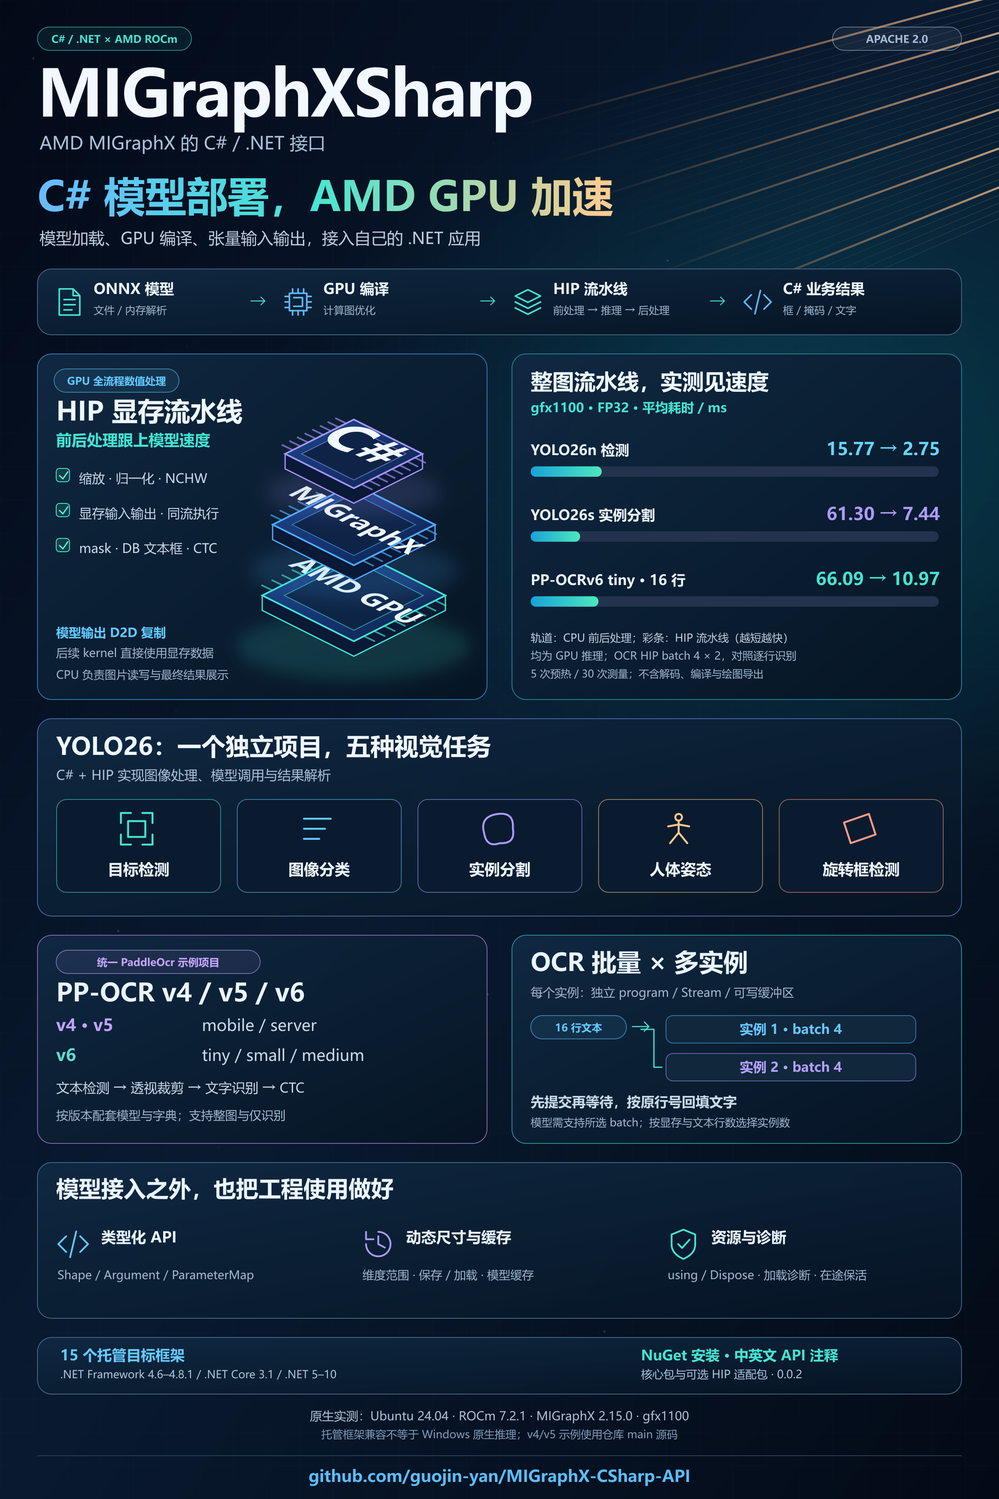
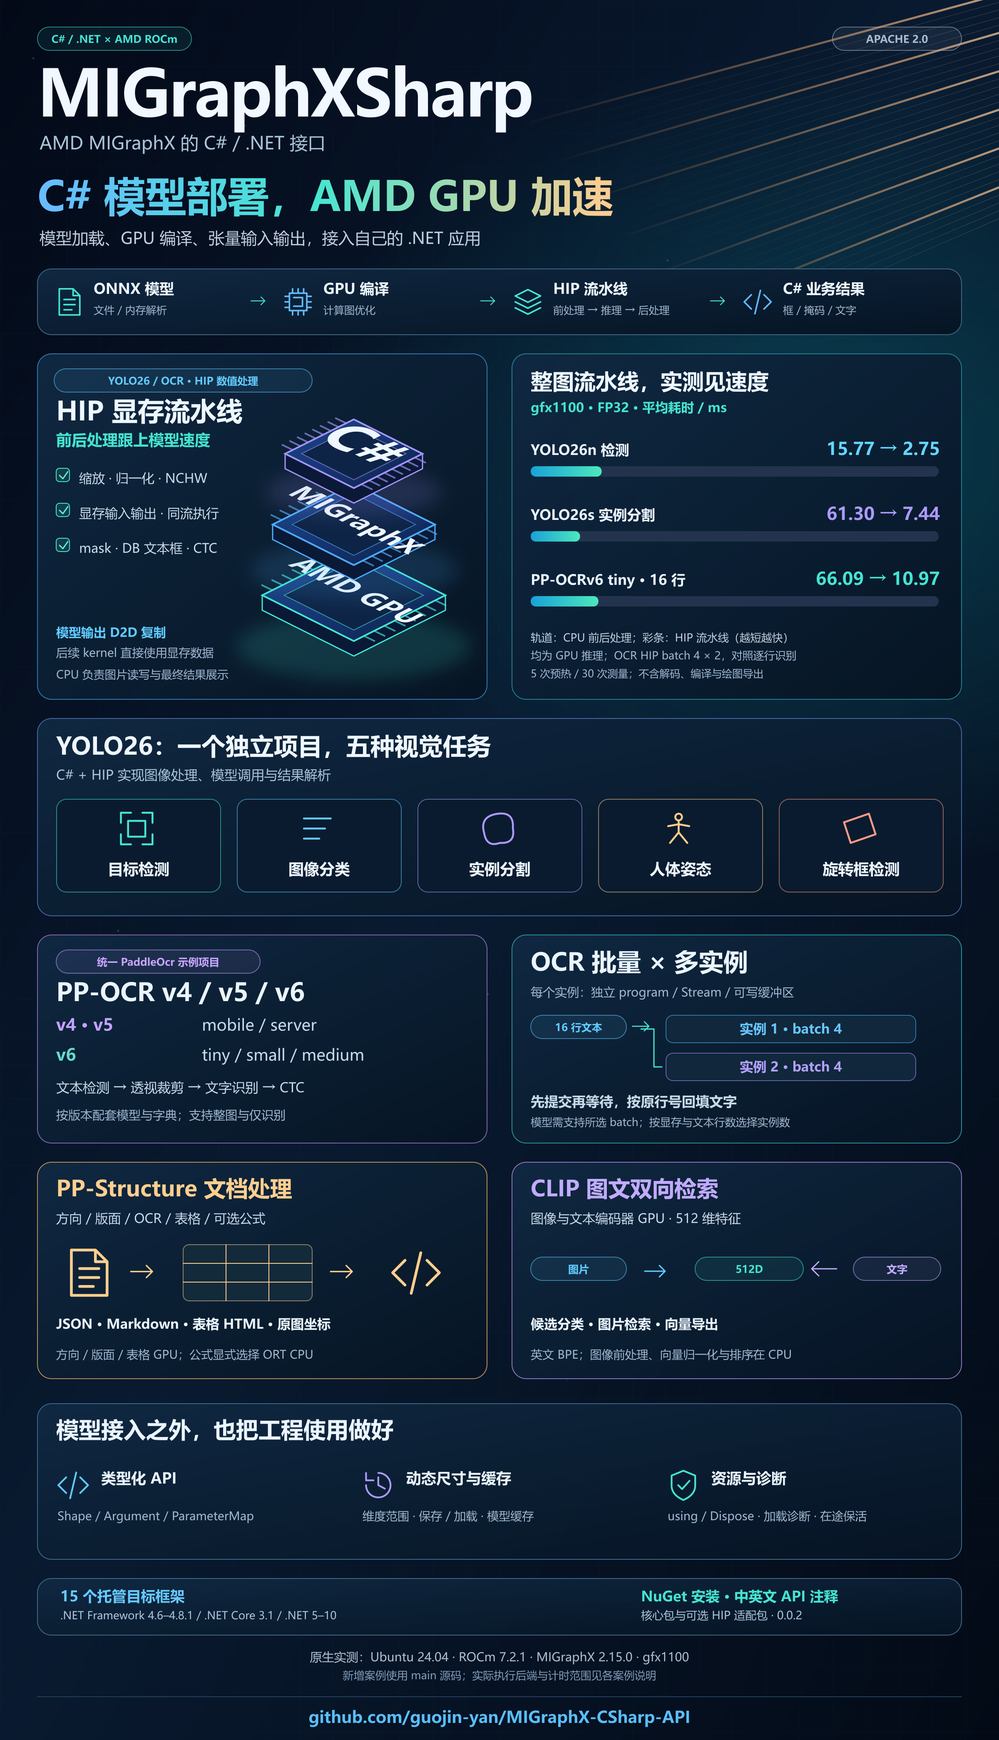
docs(blog): introduce library first and promote all four model samples

Changed region(s): [[0.0312, 0.0, 1.0, 0.9956], [0.875, 0.7156, 0.9062, 0.7467], [0.4062, 0.7156, 0.4375, 0.7467]]

diff --git a/docs/blog/2026-11-01-clip-image-text-retrieval.md b/docs/blog/2026-11-01-clip-image-text-retrieval.md
@@ -2,17 +2,35 @@
 
 ![CLIP 图文双向检索：C#、MIGraphX 与共享特征空间](assets/clip/cover.png)
 
-## 一、前言：换一组描述，能不能换一组分类
+## 一、MIGraphXSharp 项目简介
+
+**MIGraphXSharp** 是一个面向 **C# / .NET 开发者**的 AMD MIGraphX 接口库，由「椒颜皮皮虾」（Guojin Yan）开发，项目源码遵循 **Apache License 2.0**。它通过 MIGraphX C ABI 调用 AMD 原生推理引擎，提供 ONNX 解析、GPU 编译、张量输入输出和资源管理接口，方便将模型接入自己的 .NET 应用。
+
+项目提供类型化数组、形状检查、`IDisposable`、动态输入和模型缓存。普通模型调用使用核心包，需要与自己编写的 HIP kernel 配合时，再使用可选 HIP 适配包连接设备内存与 stream。
+
+目前随项目提供 **YOLO26 五任务、PaddleOCR v4/v5/v6、PP-Structure 文档处理和 CLIP 图文检索**四类独立案例。除了单个模型，也可以在 C# 中组织多模型流程，保留每个阶段的结果和业务数据。
+
+**项目源码与 NuGet：**
+
+```text
+项目地址：https://github.com/guojin-yan/MIGraphX-CSharp-API
+核心包：https://www.nuget.org/packages/JYPPX.ROCm.MIGraphX.CSharp.API/0.0.2
+HIP 适配包：JYPPX.ROCm.MIGraphX.CSharp.API.HIP.Interop 0.0.2
+```
+
+当前原生 GPU 路径已在 Linux、ROCm 7.2.1、MIGraphX 2.15.0、gfx1100 上验证。托管包兼容多个 .NET 目标框架，实际运行仍需单独准备匹配的 AMD 驱动与原生运行库。
+
+## 二、从商品图片到图文检索
+
+### 2.1 换一组描述，能不能换一组分类
 
 整理商品图片时，经常会遇到一个问题：图片很多，类别还在变。今天按鞋、手表、相机分，明天又想找“带红色元素的商品”或“适合户外的背包”。如果每改一次条件都重新训练分类模型，工程成本会比较高。
 
 CLIP 提供了另一种处理方式。把图片和文字分别编码成向量，比较相似度，就可以尝试按文字描述筛选图片。它适合做图片检索、候选标签推荐和素材整理，也适合与已有的 OCR、检测流程配合使用。
 
-这次我在 MIGraphXSharp 中增加了独立的 CLIP C# 案例，用 AMD GPU 执行图像与文本两个编码器。本文使用三张商品照片、六条英文描述，完成图片到文字的匹配，再反过来用文字检索图片。除了运行方法，也把图像前处理、BPE 分词、特征归一化、分数含义和速度逐项展开。
+本篇使用当前 main 的独立 `samples/Clip` 案例，核心 API 为 `0.0.2`，v0.0.2 发布标签尚不包含这个项目。图像处理、分词、模型会话、排序和展示都在同一个工程中。接下来用三张商品照片、六条英文描述，完成图片到文字的匹配，再反过来用文字检索图片，并展开关键代码和实际速度。
 
-## 二、先看真实结果，再认识两个编码器
-
-### 2.1 三张商品图匹配到了什么
+### 2.2 三张商品图匹配到了什么
 
 ![CLIP 三张商品图的真实匹配结果：运动鞋、腕表和拍立得相机](assets/clip/clip-results.png)
 
@@ -26,7 +44,7 @@ CLIP 提供了另一种处理方式。把图片和文字分别编码成向量，
 
 这三张图都匹配到预期类别。不过这里只是功能演示，没有人工标注的数据集，也没有“不属于六类中任何一类”的负样本，不能据此写成分类准确率 100%。后面做业务拒识时，还需要补充这些样本。
 
-### 2.2 为什么图片可以和文字比较
+### 2.3 为什么图片可以和文字比较
 
 CLIP 的图像编码器接收图片，文本编码器接收 token。两者输出同一特征空间的向量。本文使用的 OpenAI CLIP ViT-B/32，每条特征都是 512 维。
 
@@ -36,20 +54,11 @@ CLIP 的图像编码器接收图片，文本编码器接收 token。两者输出
 
 两种用法复用了同一组编码器。区别在于哪一侧提前计算、哪一侧作为查询，并不需要额外训练一个六分类头。
 
-## 三、项目、环境与模型文件
+## 三、环境与模型文件
 
-### 3.1 MIGraphXSharp 在这里做什么
+### 3.1 本文运行环境
 
-MIGraphXSharp 是 C# 到 AMD MIGraphX 的接口库。本例通过它设置 ONNX 输入尺寸、编译 GPU program、传入 float32/int64 张量并读取输出。CLIP 的图像处理、分词、排序和 HTML 展示属于示例代码。
-
-```text
-项目地址：https://github.com/guojin-yan/MIGraphX-CSharp-API
-核心包：JYPPX.ROCm.MIGraphX.CSharp.API 0.0.2
-案例目录：samples/Clip
-模型来源：https://github.com/guojin-yan/DeploySharp/releases/tag/models-visual.1
-```
-
-本案例位于当前 main，未包含在 v0.0.2 发布标签中；使用的是已有核心 API。它是独立项目，所需 `ModelSession`、tokenizer、图像前处理和结果代码全部放在自己的目录中。
+本例通过 MIGraphXSharp 设置 ONNX 输入尺寸、编译 GPU program、传入 float32/int64 张量并读取输出，使用以下原生与托管环境：
 
 | 项目 | 本文配置 |
 | --- | --- |
@@ -63,6 +72,8 @@ MIGraphXSharp 是 C# 到 AMD MIGraphX 的接口库。本例通过它设置 ONNX 
 两个编码器由 MIGraphX GPU 执行，图像前处理、特征归一化和排序目前在 CPU。这与 YOLO26/OCR 的 HIP 前后处理路径不同，后面的性能数据也按实际实现说明。
 
 ### 3.2 五个模型相关文件
+
+模型下载来源：`https://github.com/guojin-yan/DeploySharp/releases/tag/models-visual.1`。
 
 | 文件 | 用途 |
 | --- | --- |

diff --git a/docs/blog/2026-11-01-pp-structure-document-processing.md b/docs/blog/2026-11-01-pp-structure-document-processing.md
@@ -2,30 +2,35 @@
 
 ![PP-Structure 文档处理：从页面图片到区域、文字、表格与结构化结果](assets/pp-structure/cover.png)
 
-## 一、前言：文字读出来以后，文档还缺什么
+## 一、MIGraphXSharp 项目简介
 
-前面用 PaddleOCR 完成了文字检测与识别，图片里写了什么，已经能够读出来。但换成报纸、论文、费用表，直接把所有行拼成一段文本，很多信息就丢了：哪一块是标题，哪一块是正文，哪些文字属于同一个表格，公式应该放在哪里？
+**MIGraphXSharp** 是一个面向 **C# / .NET 开发者**的 AMD MIGraphX 接口库，由「椒颜皮皮虾」（Guojin Yan）开发，项目源码遵循 **Apache License 2.0**。它通过 MIGraphX C ABI 调用 AMD 原生推理引擎，提供 ONNX 解析、GPU 编译、张量输入输出和资源管理接口，方便在现有 .NET 工程中组织模型调用。
 
-文档处理需要在 OCR 上面再加一层结构。我这次将 Paddle 文档模型组合成一个独立 C# 案例，接入页面方向、版面、整页 OCR、表格分类、单元格检测、结构解码，并导出 JSON、Markdown、HTML 和原图定位。
+项目提供类型化数组、形状检查、`IDisposable`、动态输入和模型缓存，也可以通过可选 HIP 适配包连接自己的显存与 stream。对于文档这种多模型任务，可以复用已经编译的模型，在 C# 中组织各阶段和业务结果。
 
-本文会按一页文档的处理顺序介绍代码，再单独拆开表格这条路径。实际演示包含报刊、图文混排、论文、公式、费用表和倒置页六种输入，最后给出逐页耗时。
+目前随项目提供 **YOLO26 五任务、PaddleOCR v4/v5/v6、PP-Structure 文档处理和 CLIP 图文检索**四类独立案例。图像处理、模型解码和文档导出放在案例层，核心库没有引入 OCR、ImageSharp 或 ONNX Runtime 依赖。
 
-先说明执行范围：**方向、版面、OCR 和表格模型使用 MIGraphX GPU，OCR 数值前后处理使用 HIP；公式识别是显式选择的 ONNX Runtime CPU 路径。** FormulaNet 的动态图在当前 MIGraphX 2.15 下不能直接解析，因此这不是全 GPU 的公式方案。
-
-## 二、项目定位与最终结果
-
-### 2.1 案例建立在 MIGraphXSharp 上
-
-MIGraphXSharp 负责 C# 调用 AMD MIGraphX 的模型解析、编译、张量与资源管理。这里的 `DocumentPipeline` 则属于应用示例，把多个模型按页面流程连接起来，核心库本身没有引入 OCR、ImageSharp 或 ONNX Runtime 依赖。
+**项目源码与 NuGet：**
 
 ```text
 项目地址：https://github.com/guojin-yan/MIGraphX-CSharp-API
-核心 API 版本：0.0.2
-案例目录：samples/PPStructure
-模型来源：https://github.com/guojin-yan/DeploySharp/releases/tag/models-paddleocr
+核心包：https://www.nuget.org/packages/JYPPX.ROCm.MIGraphX.CSharp.API/0.0.2
+HIP 适配包：JYPPX.ROCm.MIGraphX.CSharp.API.HIP.Interop 0.0.2
 ```
 
-本文使用当前 main 中的独立示例，v0.0.2 发布标签尚不包含这个新项目。模型、图像处理、OCR、结构解码和导出都在自己的项目目录，便于直接阅读和移植。
+当前原生 GPU 路径已在 Linux、ROCm 7.2.1、MIGraphX 2.15.0、gfx1100 上验证。托管包兼容多个 .NET 目标框架，实际运行仍需单独准备匹配的 AMD 驱动与原生运行库。
+
+## 二、从文字识别到文档结构
+
+### 2.1 文字读出来以后，文档还缺什么
+
+PaddleOCR 可以完成文字检测与识别，读出图片里的内容。但换成报纸、论文、费用表，直接把所有行拼成一段文本，很多信息就丢了：哪一块是标题，哪一块是正文，哪些文字属于同一个表格，公式应该放在哪里？
+
+文档处理需要在 OCR 上面再加一层结构。我这次将 Paddle 文档模型组合成一个独立 C# 案例，接入页面方向、版面、整页 OCR、表格分类、单元格检测、结构解码，并导出 JSON、Markdown、HTML 和原图定位。
+
+代码位于当前 main 的 `samples/PPStructure`，v0.0.2 发布标签尚不包含这个新项目，核心 API 沿用 `0.0.2`。本文按页面处理顺序介绍代码，再单独拆开表格路径；演示包含报刊、混排、论文、公式、费用表和倒置页六种输入，最后给出逐页耗时。
+
+执行范围也分别说明：**方向、版面、OCR 和表格模型使用 MIGraphX GPU，OCR 数值前后处理使用 HIP；公式识别是显式选择的 ONNX Runtime CPU 路径。** FormulaNet 的动态图在当前 MIGraphX 2.15 下不能直接解析，因此这不是全 GPU 的公式方案。
 
 ### 2.2 先看两张复杂页面
 
@@ -77,6 +82,8 @@ MIGraphXSharp 负责 C# 调用 AMD MIGraphX 的模型解析、编译、张量与
 | 模型精度 | FP32 |
 | OCR 调度 | batch=4，worker=2 |
 | 可选公式 | ONNX Runtime CPU，4 线程 |
+
+模型下载来源：`https://github.com/guojin-yan/DeploySharp/releases/tag/models-paddleocr`。
 
 在仓库根目录准备文件。Python 只用于一次性改写兼容 ONNX，后续页面处理入口是 C#：
 

diff --git a/docs/blog/2026-11-01-yolo26-five-tasks.md b/docs/blog/2026-11-01-yolo26-five-tasks.md
@@ -2,30 +2,33 @@
 
 ![MIGraphXSharp YOLO26 五任务：C# 接入 AMD GPU，HIP 完成数值前后处理](assets/yolo26/cover.png)
 
-## 一、前言：模型跑得快，整个程序也要跟上
+## 一、MIGraphXSharp 项目简介
 
-做过 YOLO 部署的小伙伴应该遇到过这种情况：模型推理只需要几毫秒，图片从读进来到拿到结果，却花了十几甚至几十毫秒。尤其是实例分割，模型后面还有 mask 计算、缩放和坐标恢复，单看一次推理时间，很容易低估整个程序的开销。
+**MIGraphXSharp** 是一个面向 **C# / .NET 开发者**的 AMD MIGraphX 接口库，由「椒颜皮皮虾」（Guojin Yan）开发，项目源码遵循 **Apache License 2.0**。它通过 MIGraphX C ABI 调用 AMD 原生推理引擎，提供 ONNX 模型解析、GPU 编译、张量输入输出和资源管理接口，方便大家在现有 .NET 工程中部署模型。
 
-这次我把 YOLO26 的五类任务整理到 MIGraphXSharp 的同一个 C# 示例中。除了调用 AMD MIGraphX 执行模型，也把 resize、letterbox、输出解码和实例 mask 计算放到了 HIP 显存流水线中。这样，大家既可以看到五类模型怎样使用，也能看清楚前后处理究竟影响了多少时间。
+项目按 C# 的使用习惯提供类型化数组、形状检查和 `IDisposable` 资源管理，也支持动态输入、程序保存加载与模型缓存。需要自己写 GPU 前后处理时，可以通过可选的 HIP 适配包，把模型接入已有的设备缓冲区和 stream。
 
-本文从模型文件、输入输出、C# 调用一直讲到实际结果和速度。检测只是其中一条路径，分类、分割、姿态和旋转框都有对应代码和演示。
+目前随项目提供 **YOLO26 五任务、PaddleOCR v4/v5/v6、PP-Structure 文档处理和 CLIP 图文检索**四类独立案例。NuGet 提供推理和显存互操作 API，各模型的图像处理、解码与展示代码保留在对应示例中，大家可以按任务直接查看和修改。
 
-## 二、项目和本篇案例
-
-### 2.1 MIGraphXSharp 负责什么
-
-MIGraphXSharp 是我维护的 MIGraphX C# 接口库，通过 MIGraphX C ABI 连接 AMD 原生运行时。ONNX 解析、GPU 编译、张量输入输出和资源释放可以直接在 C# 中完成；需要自己写 HIP 前后处理时，再使用 HIP 适配包连接设备内存与 stream。
-
-这里要区分两个层次：**NuGet 提供推理和显存互操作 API，YOLO 的图像处理、任务解码和绘图属于示例工程。** 安装核心包不会自动得到一个 YOLO 业务类，也不会安装 ROCm 驱动。
+**项目源码与 NuGet：**
 
 ```text
 项目地址：https://github.com/guojin-yan/MIGraphX-CSharp-API
-核心包：JYPPX.ROCm.MIGraphX.CSharp.API 0.0.2
+核心包：https://www.nuget.org/packages/JYPPX.ROCm.MIGraphX.CSharp.API/0.0.2
 HIP 适配包：JYPPX.ROCm.MIGraphX.CSharp.API.HIP.Interop 0.0.2
-案例目录：samples/Yolo26
 ```
 
-本篇按当前 main 源码编写，核心 API 为 `0.0.2`。YOLO26 示例是一个独立项目，图像、HIP kernel、模型会话、解码和计时代码都在自己的目录中，便于直接阅读或移入现有工程。
+当前原生 GPU 路径已在 Linux、ROCm 7.2.1、MIGraphX 2.15.0、gfx1100 上验证。托管包兼容多个 .NET 目标框架，实际运行仍需单独准备匹配的 AMD 驱动与原生运行库。
+
+## 二、YOLO26 五任务与本篇实战
+
+### 2.1 模型跑得快，整个程序也要跟上
+
+做过 YOLO 部署的小伙伴应该遇到过这种情况：模型推理只需要几毫秒，图片从读进来到拿到结果，却花了十几甚至几十毫秒。尤其是实例分割，模型后面还有 mask 计算、缩放和坐标恢复，单看一次推理时间，很容易低估整个程序的开销。
+
+这次我把 YOLO26 的五类任务整理到同一个 C# 示例中。除了调用 MIGraphX 执行模型，也把 resize、letterbox、输出解码和实例 mask 计算放到了 HIP 显存流水线中。这样，大家既可以看到五类模型怎样使用，也能看清楚前后处理究竟影响了多少时间。
+
+本文按当前 main 的 `samples/Yolo26` 编写，核心 API 为 `0.0.2`。图像、HIP kernel、模型会话、解码和计时代码都在同一个项目中，便于直接阅读或移入现有工程。接下来从模型文件、输入输出、C# 调用一直讲到实际结果和速度，检测、分类、分割、姿态和旋转框分别展开。
 
 ### 2.2 五个任务，结果各不相同
 

diff --git a/docs/blog/2026-11-01-paddleocr-v4-v5-v6.md b/docs/blog/2026-11-01-paddleocr-v4-v5-v6.md
@@ -2,28 +2,31 @@
 
 ![PaddleOCR v4、v5、v6 的 C# AMD GPU 实战：检测、裁剪、批量识别与 HIP 解码](assets/paddleocr/cover.png)
 
-## 一、前言：OCR 要看一整张图的处理时间
+## 一、MIGraphXSharp 项目简介
 
-OCR 与单次图像分类不太一样。一张图片先经过文字检测，得到十几条、几十条文字行；每一行还要裁剪、缩放、识别和解码。识别模型本身即使很小，逐行串起来，整图耗时也可能明显增加。
+**MIGraphXSharp** 是一个面向 **C# / .NET 开发者**的 AMD MIGraphX 接口库，由「椒颜皮皮虾」（Guojin Yan）开发，项目源码遵循 **Apache License 2.0**。它通过 MIGraphX C ABI 调用 AMD 原生推理引擎，提供 ONNX 模型解析、GPU 编译、张量输入输出和资源管理接口，方便大家将模型接入已有的 .NET 应用。
 
-前面做 MIGraphXSharp 的时候，我先把 PP-OCRv6 跑通，随后把检测和识别的数值前后处理迁移到 HIP，又加入识别 batch 和多个独立推理实例。这次进一步把 **PP-OCRv4、v5、v6 放到同一个案例项目**，模型选择、字典检查、结果格式和计时方式统一起来。
+项目提供类型化数组、形状检查、`IDisposable`、动态输入和模型缓存等接口。普通同步推理使用核心包即可；需要图像预处理、裁剪和输出解码也在 GPU 上执行时，再通过 HIP 适配包连接设备内存与 stream。
 
-本文会从三代模型怎样选择讲起，拆开检测、DB 解码、透视裁剪、CTC 和多实例调度，再看真实文字与整图速度。大家可以用同一套代码切换模型，也可以只取其中的文字行识别部分。
+目前随项目提供 **YOLO26 五任务、PaddleOCR v4/v5/v6、PP-Structure 文档处理和 CLIP 图文检索**四类独立案例。库负责模型与张量，各案例提供对应的前后处理和结果展示代码，便于大家直接查看实现并接到自己的业务中。
 
-## 二、项目能力与案例范围
-
-MIGraphXSharp 提供 C# 调用 AMD MIGraphX 的接口，负责 ONNX 解析、GPU 编译、输入输出与资源管理；HIP 适配包让模型执行接入自己的设备缓冲区和 stream。
-
-本篇 OCR 业务代码位于 `samples/PaddleOcr`，包括图像、检测、裁剪、识别、HIP kernel、结果导出和计时。它是一个自包含的示例项目，不需要引用其他 sample。
+**项目源码与 NuGet：**
 
 ```text
 项目地址：https://github.com/guojin-yan/MIGraphX-CSharp-API
-核心包：JYPPX.ROCm.MIGraphX.CSharp.API 0.0.2
+核心包：https://www.nuget.org/packages/JYPPX.ROCm.MIGraphX.CSharp.API/0.0.2
 HIP 适配包：JYPPX.ROCm.MIGraphX.CSharp.API.HIP.Interop 0.0.2
-案例目录：samples/PaddleOcr
 ```
 
-文章按当前 main 源码编写。已发布的 v0.0.2 标签中原项目名为 `PaddleOcrV6`，三代统一后的项目需要使用当前 main；核心 API 无需因此更换版本。
+当前原生 GPU 路径已在 Linux、ROCm 7.2.1、MIGraphX 2.15.0、gfx1100 上验证。托管包兼容多个 .NET 目标框架，实际运行仍需单独准备匹配的 AMD 驱动与原生运行库。
+
+## 二、PaddleOCR 三代模型与本篇实战
+
+OCR 与单次图像分类不太一样。一张图片先经过文字检测，得到十几条、几十条文字行；每一行还要裁剪、缩放、识别和解码。识别模型本身即使很小，逐行串起来，整图耗时也可能明显增加。
+
+这次把 **PP-OCRv4、v5、v6 放到同一个案例项目**，统一模型选择、字典检查、结果格式和计时方式。检测与识别的数值前后处理使用 HIP，文字行支持 batch 和多个独立推理实例。本文会从模型选择讲起，拆开 DB 解码、透视裁剪、CTC 和调度，再看真实文字与整图速度。
+
+代码位于当前 main 的 `samples/PaddleOcr`，图像、检测、裁剪、识别、HIP kernel、导出和计时都在一个自包含项目中。已发布的 v0.0.2 标签中原项目名为 `PaddleOcrV6`，三代统一后的案例需要使用当前 main；核心 API 无需因此更换版本。
 
 这个项目完成图片文本检测与识别，输出文字、置信度和四边形。它不包含页面内容方向分类、文档去畸变和表格重建；需要标题、段落、表格等文档信息，可以继续使用 `samples/PPStructure`。
 

diff --git a/docs/blog/README.md b/docs/blog/README.md
@@ -2,13 +2,13 @@
 
 这里收录可独立阅读、用于博客发表的中文技术文章。文章注明适用版本，代码和数据按对应版本核对；日常 API 查询与部署说明见[使用文档](../index.md)。
 
-首篇介绍库的定位、主要 API 与 HIP 显存流水线。四篇实战文章分别展开 YOLO26、PaddleOCR v4/v5/v6、PP-Structure 与 CLIP，包含工程准备、关键 C# 代码、处理原理、真实输出及性能。文章使用 `0.0.2` 核心 API 和当前 main 的示例；新增示例与发布标签的差异在正文中注明。
+首篇介绍库的定位、主要 API、HIP 显存流水线及四类案例的用途、结果和速度。四篇实战文章均以“MIGraphXSharp 项目简介”为第一章，再分别展开 YOLO26、PaddleOCR v4/v5/v6、PP-Structure 与 CLIP。文章使用 `0.0.2` 核心 API 和当前 main 的示例；新增示例与发布标签的差异在正文中注明。
 
 ## 首发系列
 
 | 顺序 | 文章 | 状态 |
 | --- | --- | --- |
-| 1 | [MIGraphXSharp 发布：让 C# 接入 AMD GPU 原生推理](2026-11-01-migraphxsharp-0.0.2.md) | 适用 0.0.2，尚未在外部博客发表 |
+| 1 | [MIGraphXSharp 发布：让 C# 接入 AMD GPU 原生推理](2026-11-01-migraphxsharp-0.0.2.md) | 核心 0.0.2、案例 main，尚未在外部博客发表 |
 | 2 | 从环境安装到第一次 ONNX 推理 | 待编写 |
 | 3 | [用 C# 在 AMD GPU 上部署 YOLO26：检测、分类、分割、姿态与旋转框实战](2026-11-01-yolo26-five-tasks.md) | 正文与配图完成，尚未在外部博客发表 |
 | 4 | [用 C# 在 AMD GPU 上部署 PaddleOCR v4/v5/v6：从文字检测到多 Batch 识别](2026-11-01-paddleocr-v4-v5-v6.md) | 正文与配图完成，尚未在外部博客发表 |

diff --git a/docs/blog/assets/README.md b/docs/blog/assets/README.md
@@ -4,7 +4,7 @@
 
 | 目录 | 文章与配图 |
 | --- | --- |
-| `migraphxsharp-0.0.2/` | 库首发文章及其原有图源；`ocr-scheduling.png` 同时用于 OCR 实战解释 batch/worker |
+| `migraphxsharp-0.0.2/` | 库首发长幅封面、四类案例总览与 API 等图源；`ocr-scheduling.png` 同时用于 OCR 实战解释 batch/worker |
 | `yolo26/` | 五任务封面、设备数据流、CPU/HIP 前后处理耗时、真实预测拼图 |
 | `paddleocr/` | 三代模型封面、OCR 流程、CTC 原理、七配置耗时、真实文字框与结果 |
 | `pp-structure/` | 文档封面、页面流程、表格对齐、报刊/混排与费用表实际输出 |
